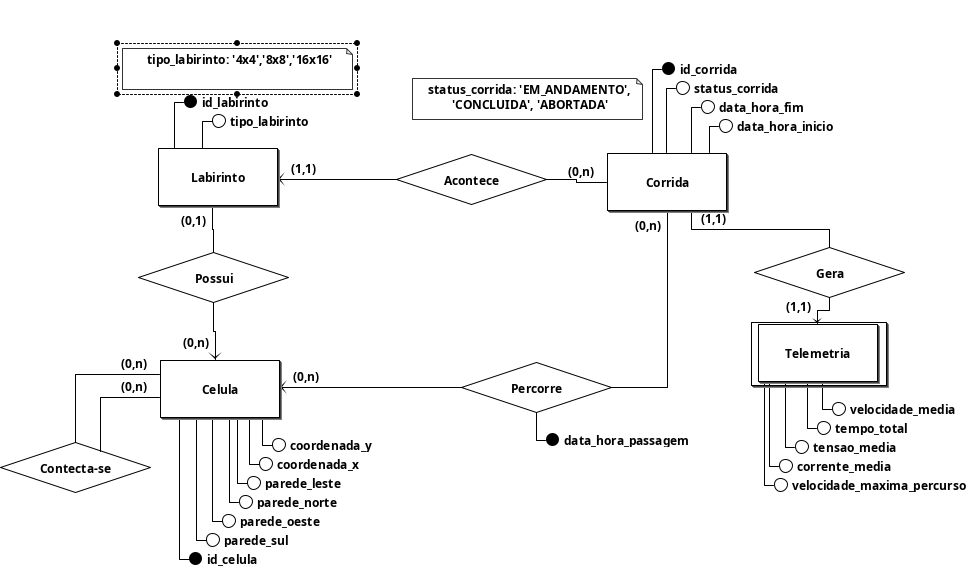
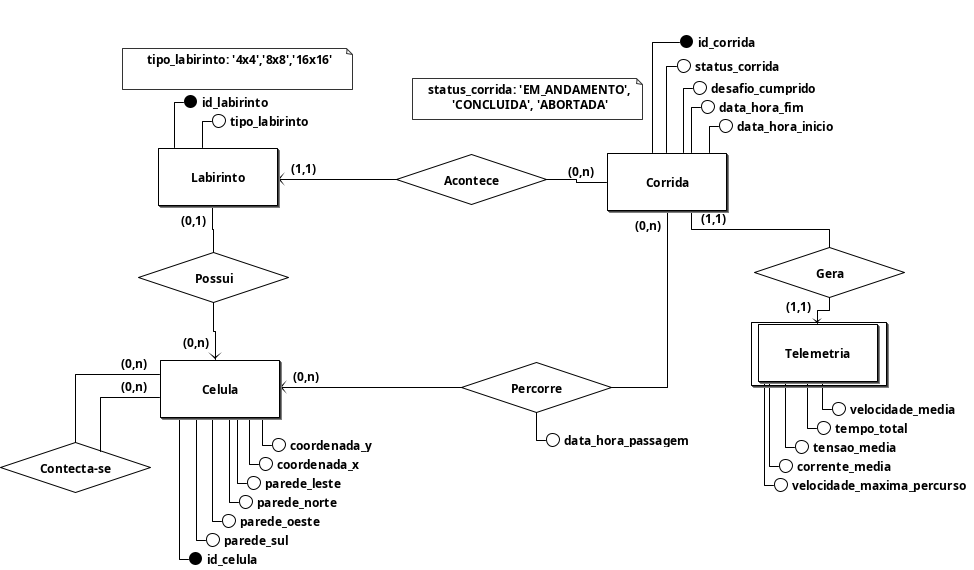
fix: corrije  atriubutos no MER e DER

diff --git a/docs/software/arquitetura-software.md b/docs/software/arquitetura-software.md
@@ -169,17 +169,17 @@ Como a solução utiliza um banco de dados relacional, foi utilizado um **Modelo
 
 **IDENTIFICAÇÃO DAS ENTIDADES**
 
-* **LABIRINTO**
-* **CELULA**
-* **CORRIDA**
-* **TELEMETRIA**
+- **LABIRINTO**
+- **CELULA**
+- **CORRIDA**
+- **TELEMETRIA**
 
 **DESCRIÇÃO DAS ENTIDADES (ATRIBUTOS)**
 
-* **LABIRINTO** (**id_labirinto**, dimensao)
-* **CELULA** (**id_celula**, coordenada_x, coordenada_y, parede_norte, parede_sul, parede_leste, parede_oeste, id_labirinto)
-* **CORRIDA** (**id_corrida**, desafio_cumprido, finalizada, id_labirinto)
-* **TELEMETRIA** (velocidade_media, tempo_total, tensao_media, corrente_media, velocidade_maxima_percurso, id_percurso)
+- **LABIRINTO** (**id_labirinto**, tipo_labirinto)
+- **CELULA** (**id_celula**, coordenada_x, coordenada_y, parede_norte, parede_sul, parede_leste, parede_oeste, id_labirinto)
+- **CORRIDA** (**id_corrida**, desafio_cumprido, status_corrida, data_hora_inicio, data_hora_fim, id_labirinto)
+- **TELEMETRIA** (velocidade_media, tempo_total, tensao_media, corrente_media, velocidade_maxima_percurso, id_corrida)
 
 #### 6.5.2 Diagrama Entidade-Relacionamento (DER)
 
